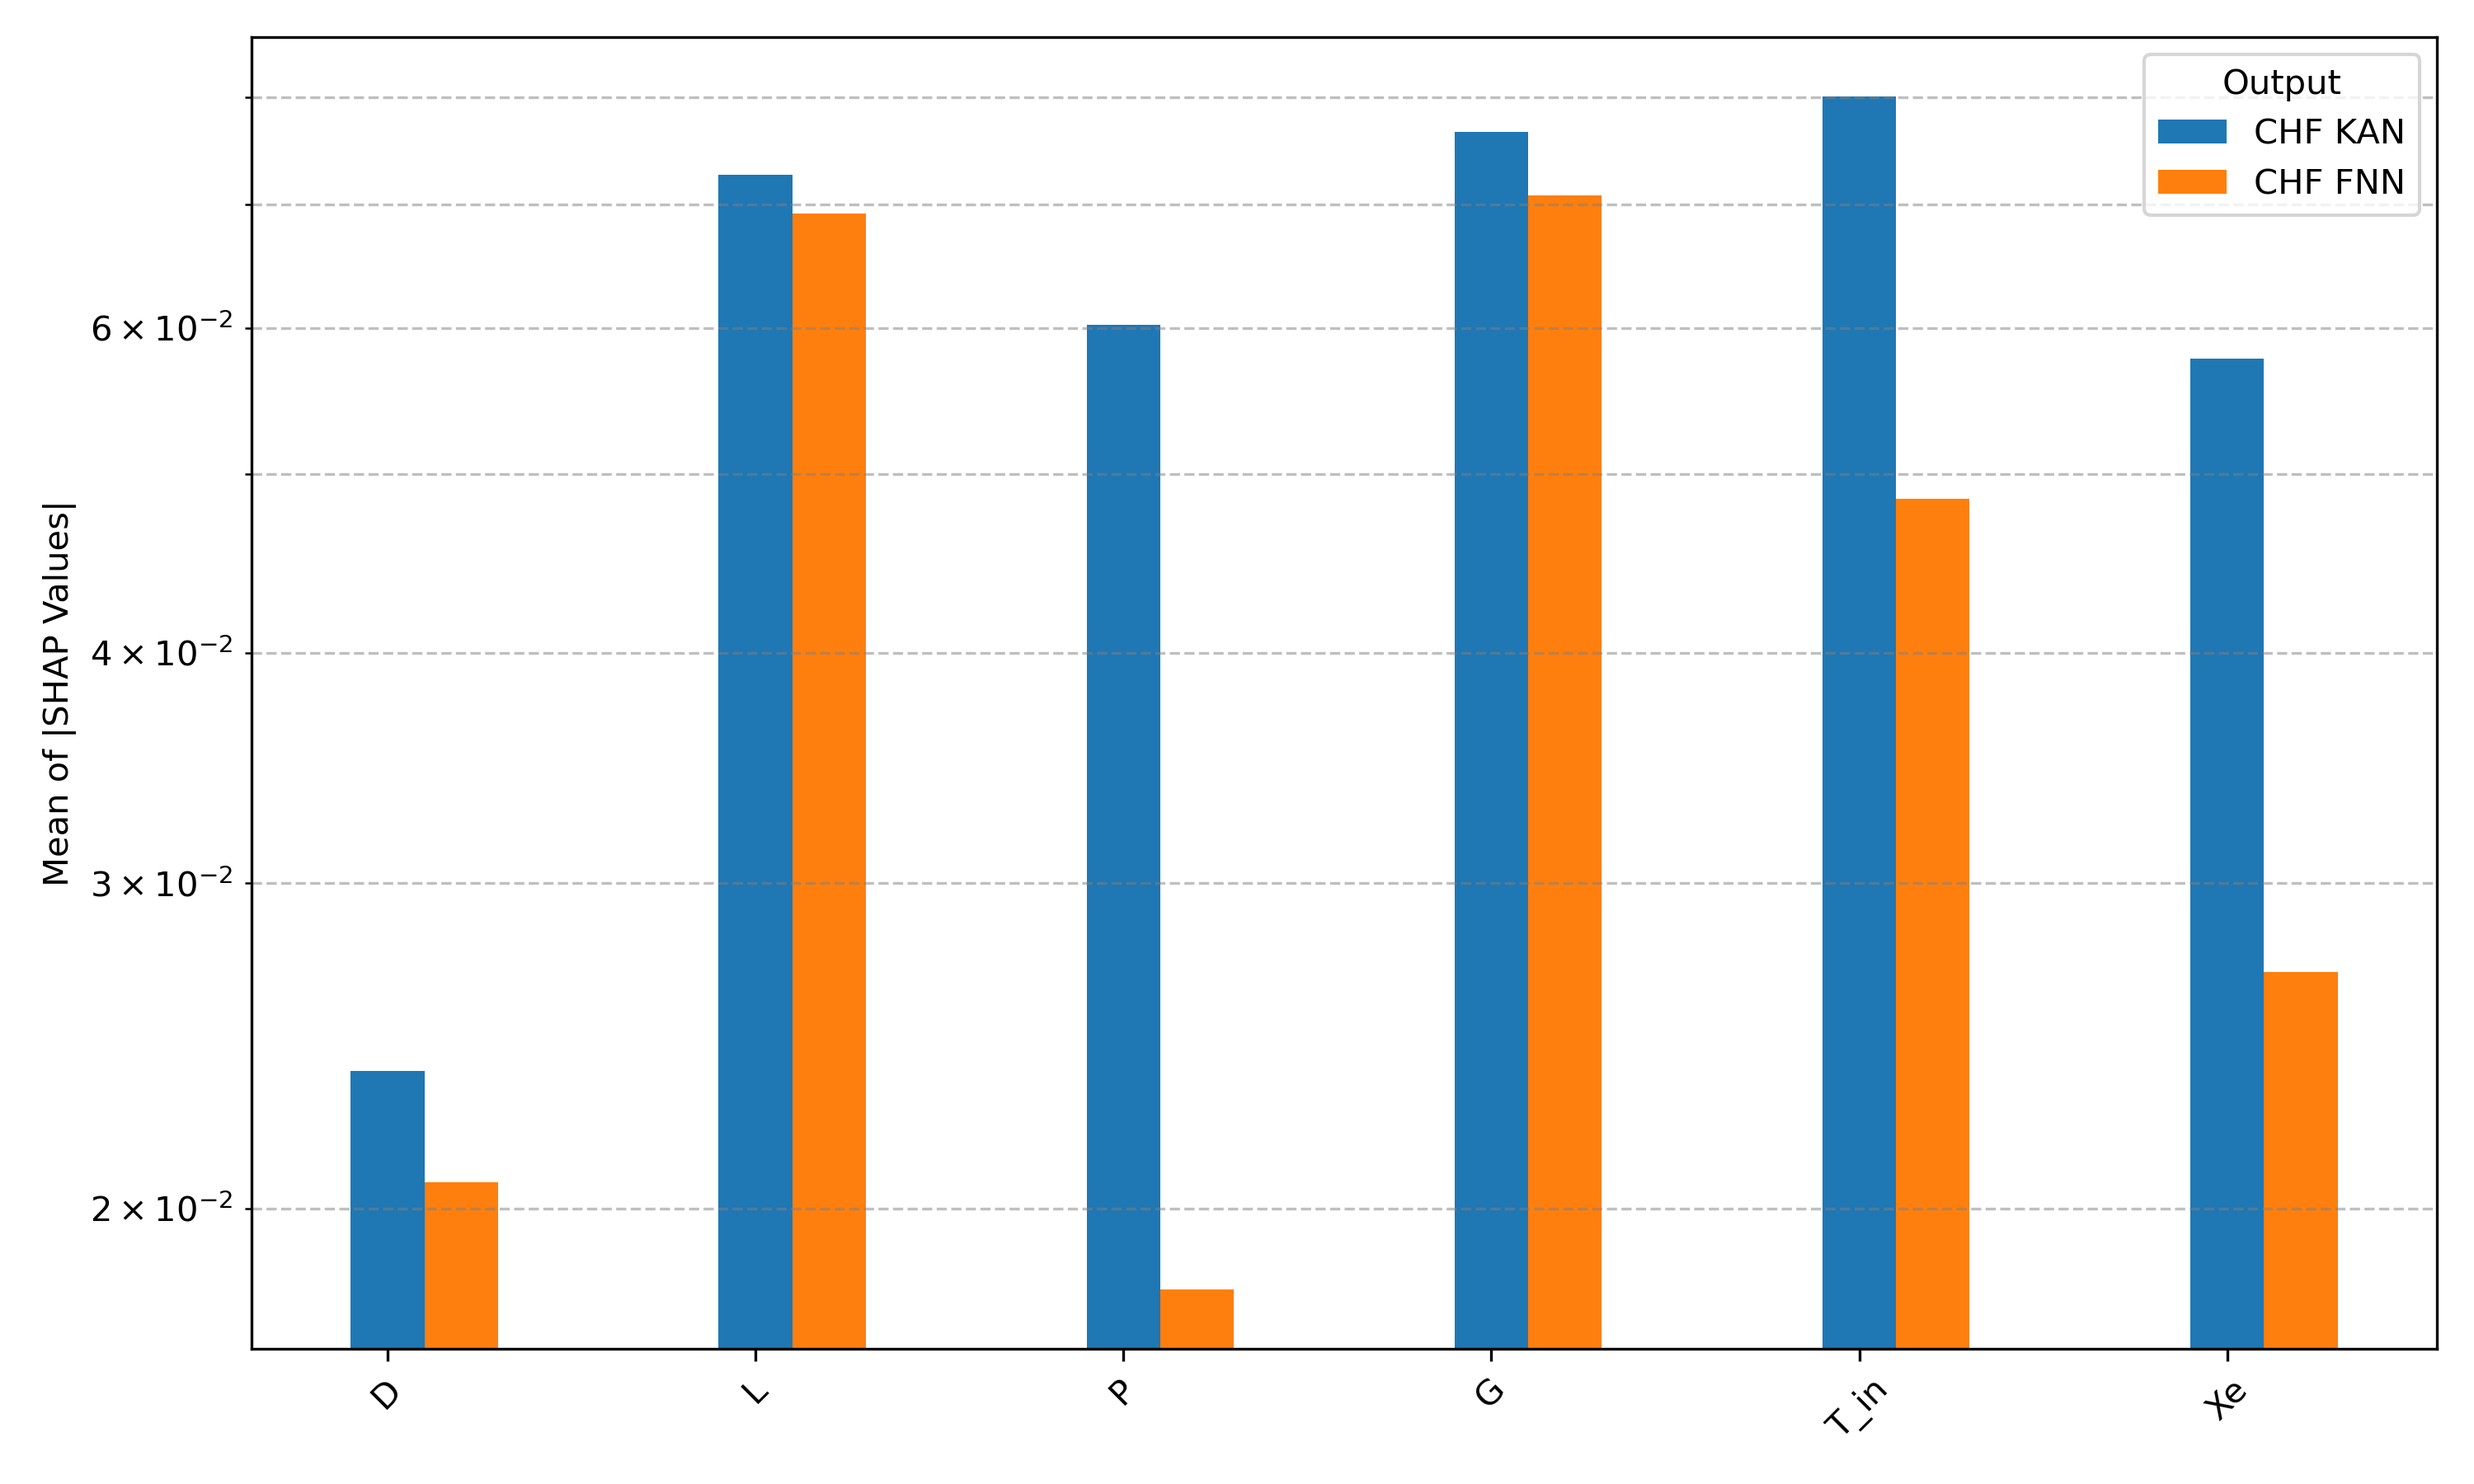
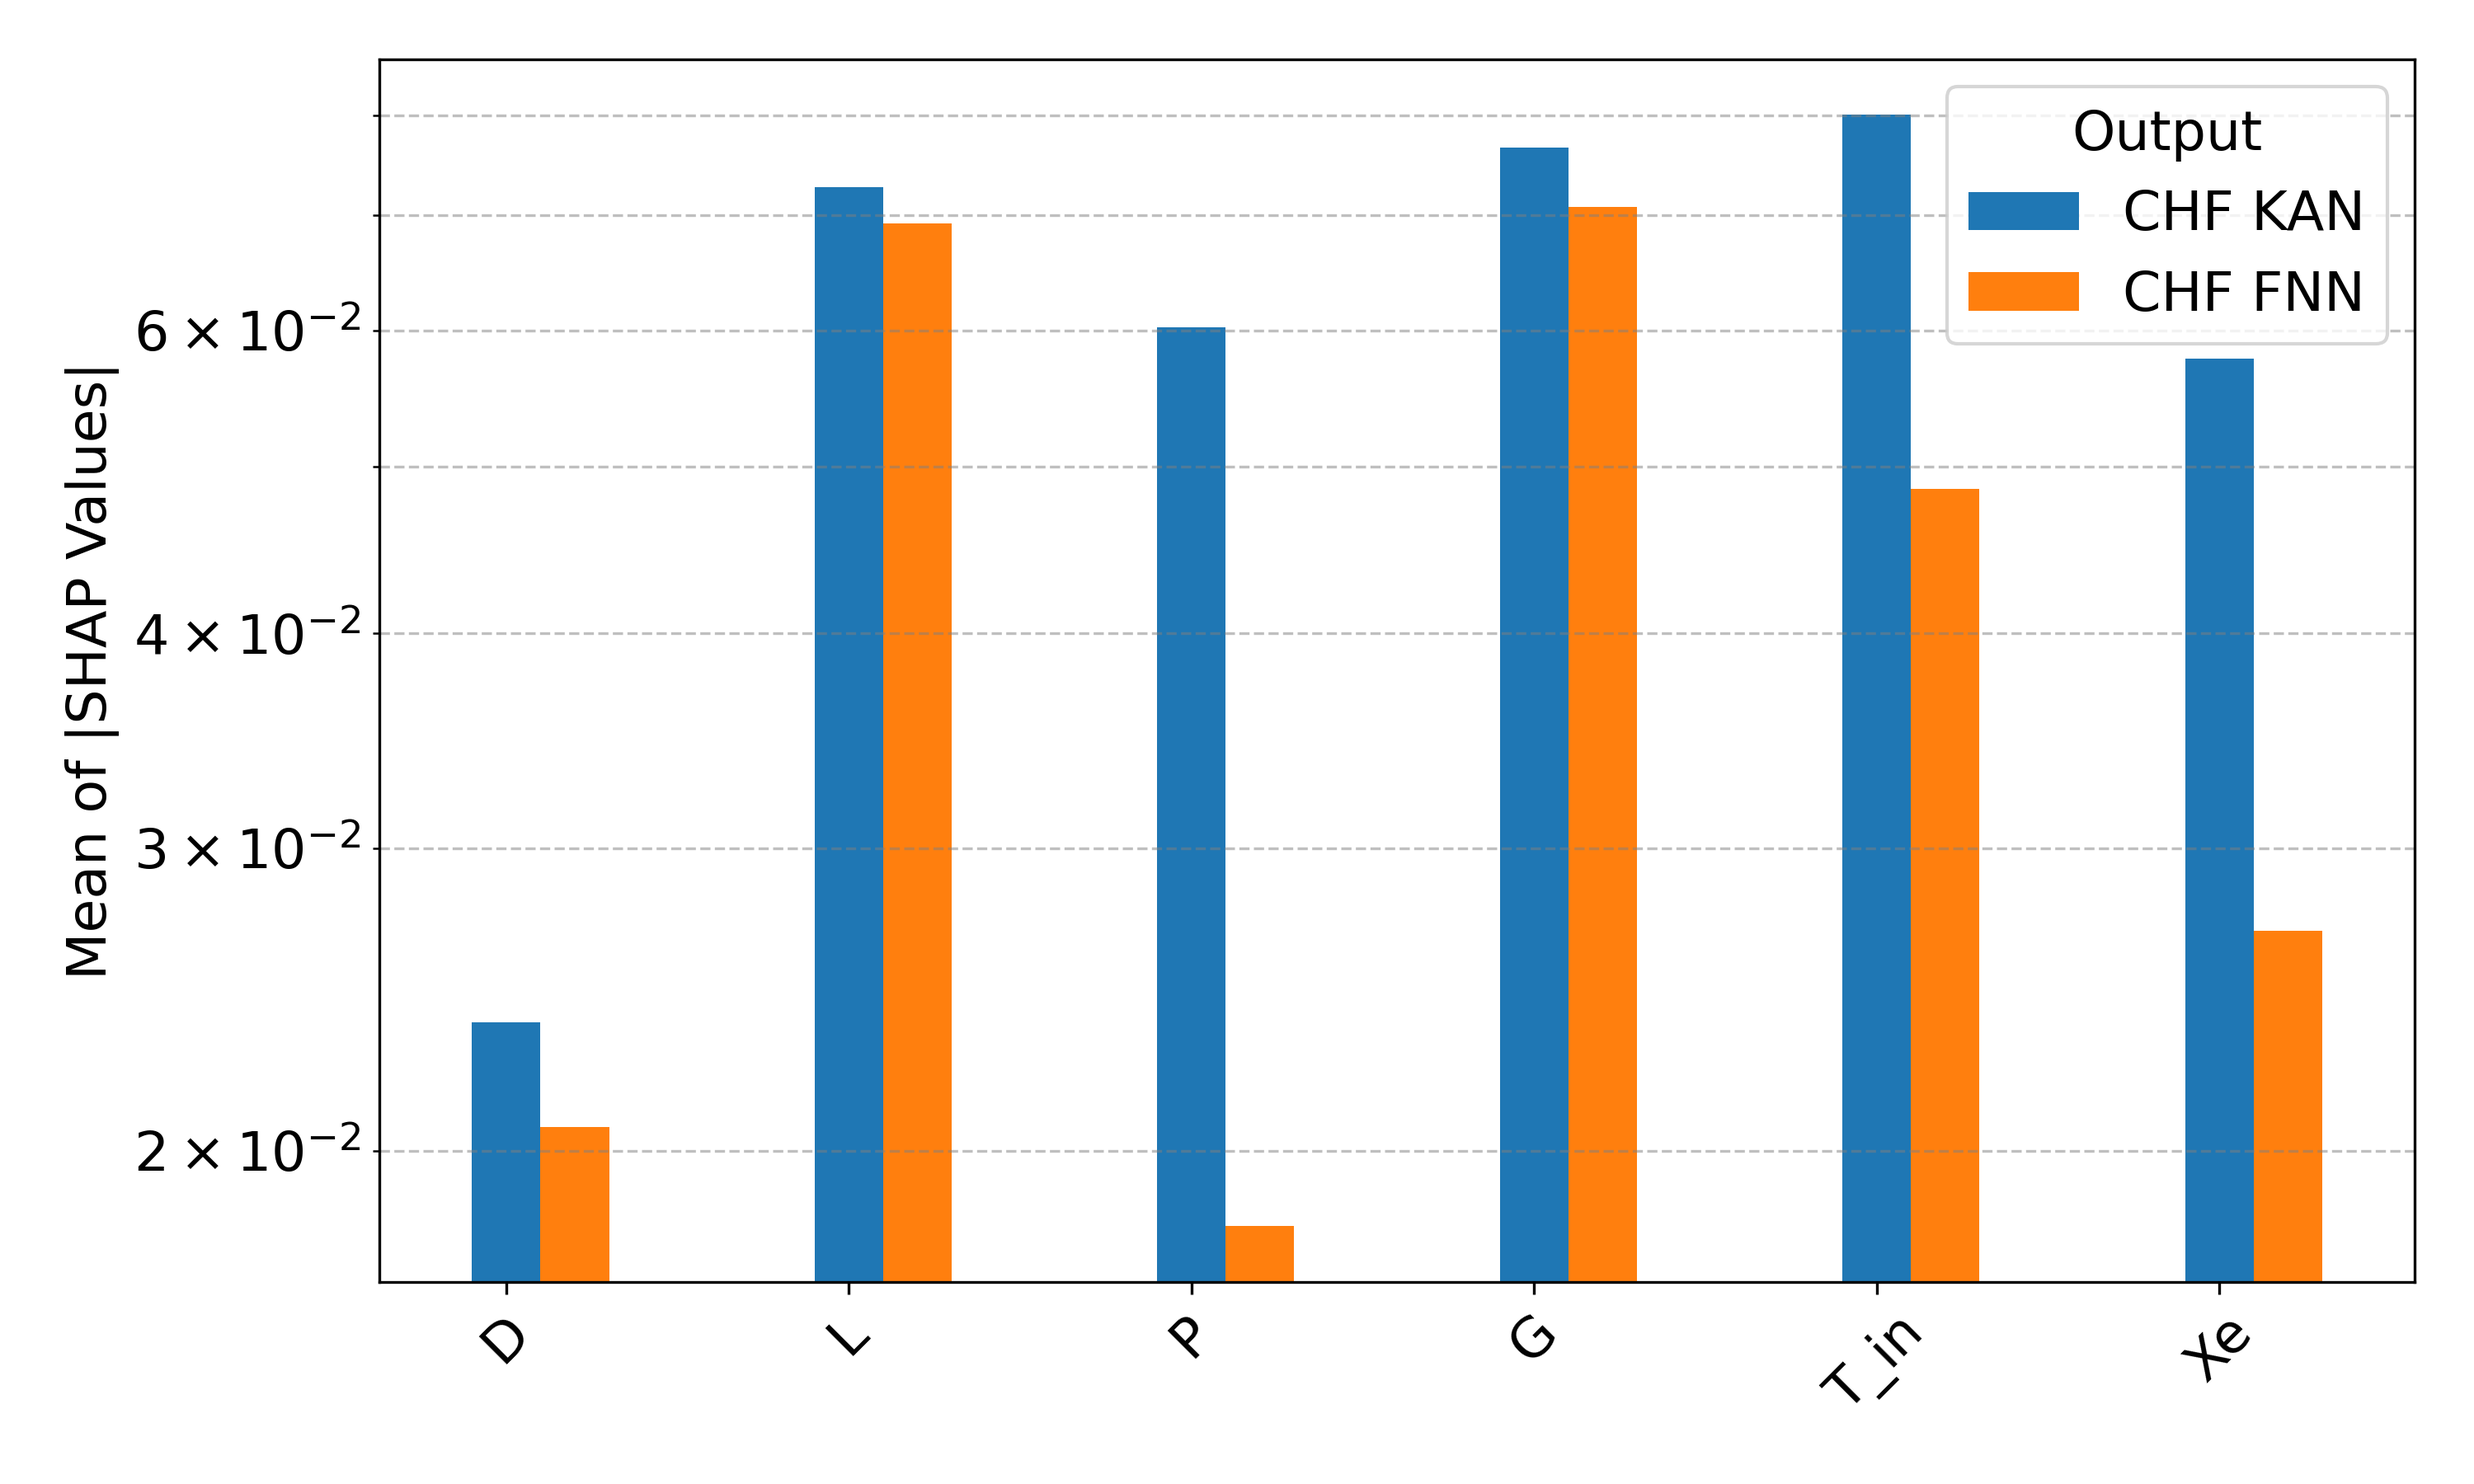
increases font size for stacked figs

diff --git a/explainability.py b/explainability.py
@@ -160,6 +160,7 @@ def plot_stacked(kan_path, fnn_path, save_as, width=0.2):
     Returns:
         tuple: (fig, ax) matplotlib objects
     """
+    plt.rcParams.update({'font.size': 16})
     kan_shap_mean = pd.read_pickle(kan_path)
     fnn_shap_mean = pd.read_pickle(fnn_path)
     fig, ax = plt.subplots(figsize=(10,6))
@@ -201,16 +202,16 @@ if __name__=="__main__":
     }
 
     shap_path_dict = {
-        # 'fp': 'shap-values/FP_kan_2025-03-18.pkl', 
-        # 'bwr': 'shap-values/BWR_kan_2025-03-18.pkl', 
-        # 'heat': 'shap-values/HEAT_kan_2025-03-18.pkl', 
-        # 'htgr': 'shap-values/HTGR_kan_2025-03-18.pkl', 
-        # 'mitr_a': 'shap-values/MITR_A_kan_2025-03-18.pkl', 
-        # 'mitr_b': 'shap-values/MITR_B_kan_2025-03-18.pkl', 
-        # 'mitr_c': 'shap-values/MITR_C_kan_2025-03-18.pkl', 
-        # 'mitr': 'shap-values/MITR_kan_2025-03-18.pkl', 
-        # 'chf': 'shap-values/CHF_kan_2025-03-18.pkl', 
-        # 'rea': 'shap-values/REA_kan_2025-03-18.pkl', 
+        'fp': 'shap-values/FP_kan_2025-03-18.pkl', 
+        'bwr': 'shap-values/BWR_kan_2025-03-18.pkl', 
+        'heat': 'shap-values/HEAT_kan_2025-03-18.pkl', 
+        'htgr': 'shap-values/HTGR_kan_2025-03-18.pkl', 
+        'mitr_a': 'shap-values/MITR_A_kan_2025-03-18.pkl', 
+        'mitr_b': 'shap-values/MITR_B_kan_2025-03-18.pkl', 
+        'mitr_c': 'shap-values/MITR_C_kan_2025-03-18.pkl', 
+        'mitr': 'shap-values/MITR_kan_2025-03-18.pkl', 
+        'chf': 'shap-values/CHF_kan_2025-03-18.pkl', 
+        'rea': 'shap-values/REA_kan_2025-03-18.pkl', 
         'xs': 'shap-values/XS_kan_2025-03-18.pkl'
         }
 
@@ -219,12 +220,12 @@ if __name__=="__main__":
     # print(paths_dict)
 
     # uncomment to make shap kan plots
-    for model, path in shap_path_dict.items():
-        plot_shap(path, save_as=f'{model}_kan', type='kan', width=0.2)
+    # for model, path in shap_path_dict.items():
+    #     plot_shap(path, save_as=f'{model}_kan', type='kan', width=0.2)
 
     ## uncomment to print shap values
     # for model, path in shap_path_dict.items():
     #     print_shap(path, save_as=f'{model}', type='kan')
 
     # # make stacked plot for CHF and HEAT
-    # plot_stacked(kan_path=shap_path_dict['heat'], fnn_path='shap-values/HEAT_fnn_2025-03-18.pkl', save_as='HEAT', width=0.2)
+    plot_stacked(kan_path=shap_path_dict['chf'], fnn_path='shap-values/CHF_fnn_2025-03-18.pkl', save_as='CHF', width=0.2)
